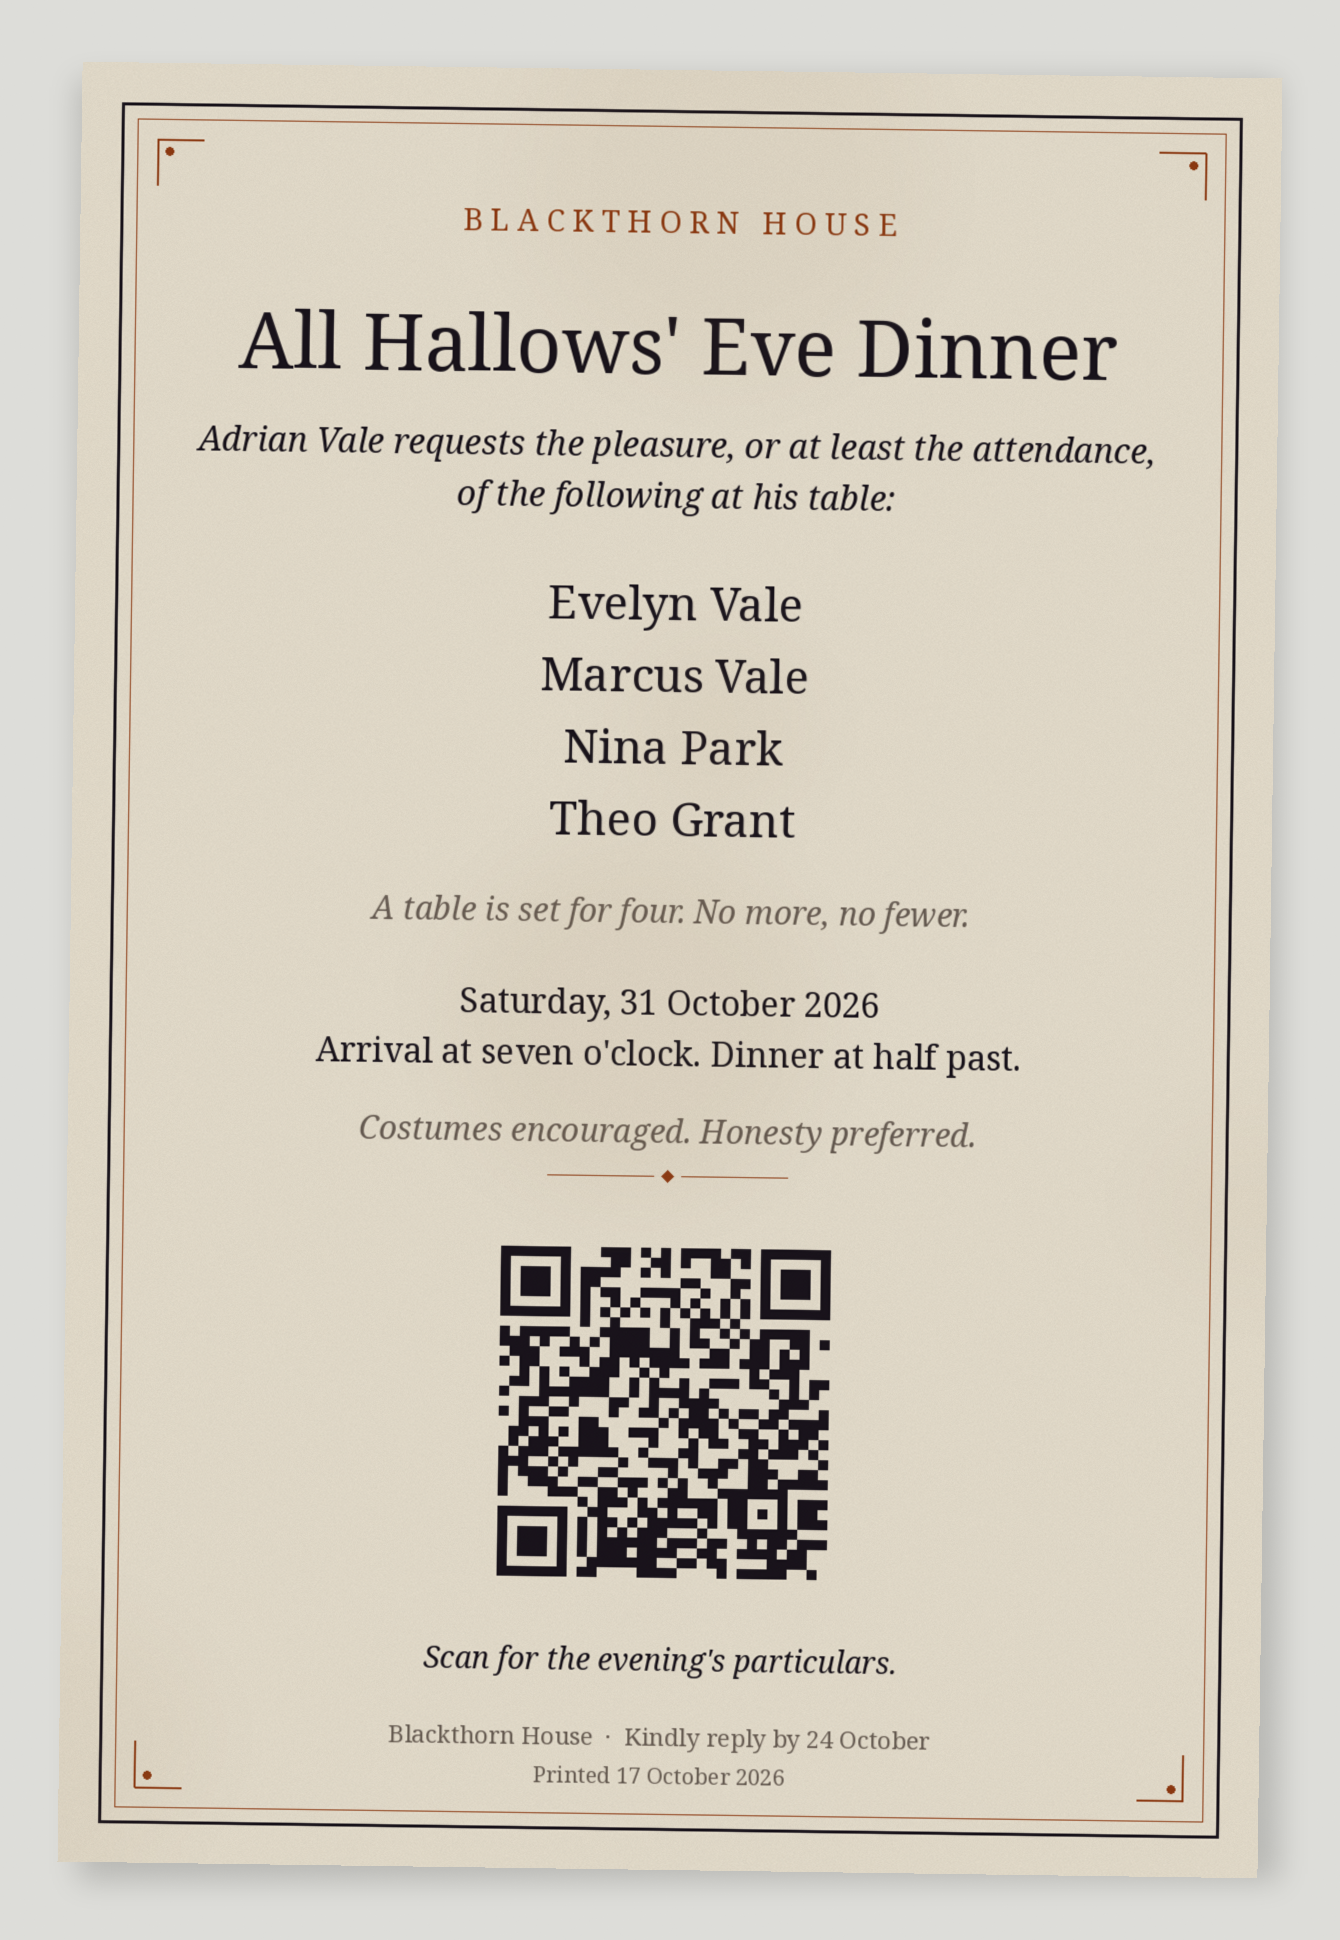
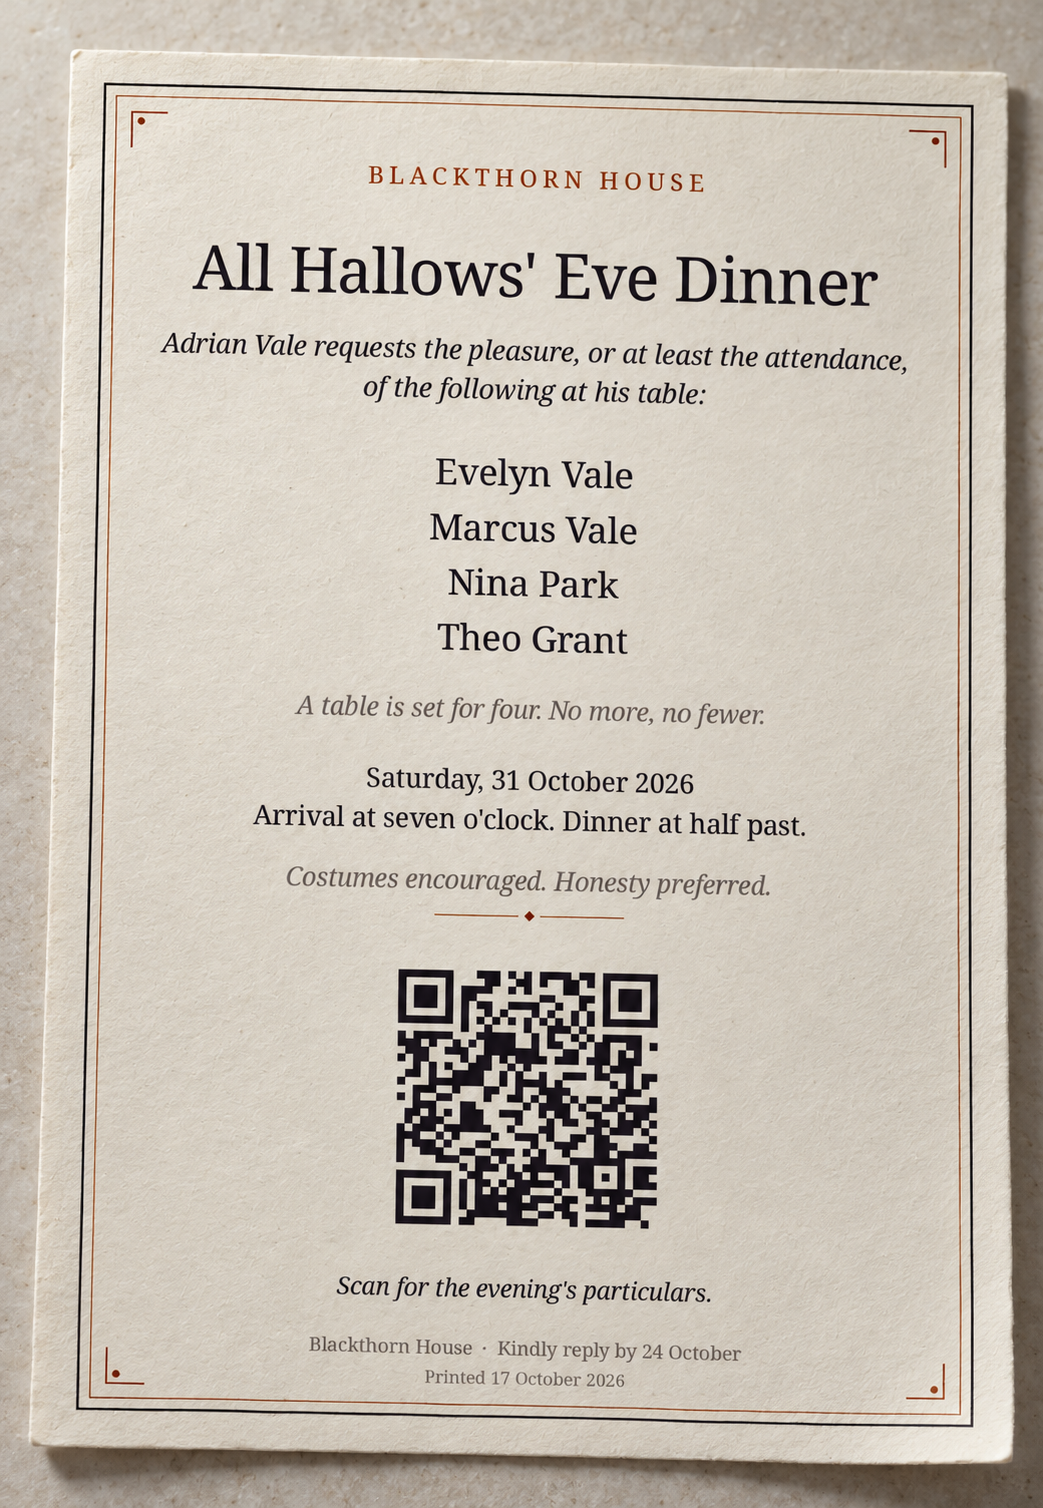
Invitation: replace generated card with hand-made image, drop its build script

Changed region(s): [[0.0, 0.0, 1.0, 1.0], [0.2454, 0.4363, 0.767, 0.8103], [0.1534, 0.1558, 0.8591, 0.4363]]

diff --git a/README.md b/README.md
@@ -64,10 +64,9 @@ Only the artifacts and `task.md` go to players. The design document, `canon/`, e
 
 ## Rebuilding the artifacts
 
-Each task has one build script that regenerates its artifacts. The builds are reproducible, so rerunning one without changing it gives the same output.
+Each task except the Invitation has one build script that regenerates its artifacts. The Invitation's `invitation.png` is a hand-made image with no build step. The builds are reproducible, so rerunning one without changing it gives the same output.
 
 ```
-python3 challenges/01-invitation/build/make_invitation.py
 python3 challenges/02-portrait/build/make_portrait.py
 python3 challenges/03-smart-lock/build/make_logs.py
 python3 challenges/04-ghost-admin/build/make_server.py
@@ -80,7 +79,7 @@ python3 challenges/08-last-testament/build/make_board.py
 Requirements:
 
 - The Smart Lock, the Ghost Admin, the Two Wills, the Family Secrets, and the Last Testament tasks need only Python 3 and its standard library.
-- The Invitation and the Portrait in the Hall tasks need the packages in their `build/requirements.txt` (`qrcode` and `pillow`). The Invitation task also expects the Noto Serif fonts to be installed.
+- The Portrait in the Hall task needs the packages in its `build/requirements.txt`.
 - The Commit History task needs `git` and `ssh-keygen`.
 
 The Commit History task's `blackthorn-dashboard/` folder holds its own `.git`, so this repository ignores it. Run `make_repo.py` to recreate it after cloning and before publishing.

diff --git a/challenges/01-invitation/organizer/solution.md b/challenges/01-invitation/organizer/solution.md
@@ -40,10 +40,4 @@ This places Celeste in the house without accusing her. Do not explain why she wa
 
 ## Rebuilding
 
-Run `make_invitation.py` after changing the QR payload, the print date, or the printed guest list. The portal needs no build step: `blackthorn-portal/` is the source, so edit `serve.py`, `README.txt`, and the pages under `portal.blackthorn.thm/` in place. Keep `canon/canon.md` in sync.
-
-```
-python3 -m venv .venv
-.venv/bin/pip install -r challenges/01-invitation/build/requirements.txt
-.venv/bin/python challenges/01-invitation/build/make_invitation.py
-```
+`invitation.png` is a hand-made image with no build script. If the QR payload, the print date, the reply date, or the printed guest list changes, the image has to be remade by hand, and its QR must still decode to the payload in `canon/canon.md`. The portal needs no build step: `blackthorn-portal/` is the source, so edit `serve.py`, `README.txt`, and the pages under `portal.blackthorn.thm/` in place. Keep `canon/canon.md` in sync.
